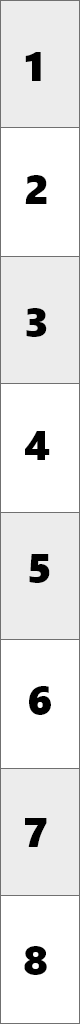
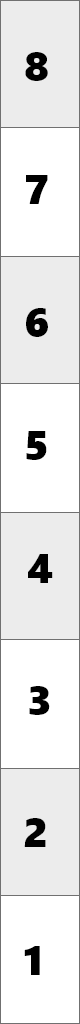
Arreglando axis

diff --git a/Move.cpp b/Move.cpp
@@ -36,21 +36,21 @@ QString Move::asignLetterAndNumber(QPoint n)
     }
 
     switch (n.y()) {
-        case 0: position += QString::number(1);
+        case 0: position += QString::number(8);
         break;
-         case 1: position += QString::number(2);
+         case 1: position += QString::number(7);
         break;
-        case 2: position += QString::number(3);
+        case 2: position += QString::number(6);
         break;
-        case 3: position += QString::number(4);
+        case 3: position += QString::number(5);
         break;
-        case 4: position += QString::number(5);
+        case 4: position += QString::number(4);
         break;
-        case 5: position += QString::number(6);
+        case 5: position += QString::number(3);
         break;
-        case 6: position += QString::number(7);
+        case 6: position += QString::number(2);
         break;
-        case 7: position += QString::number(8);
+        case 7: position += QString::number(1);
         break;
     }
 
